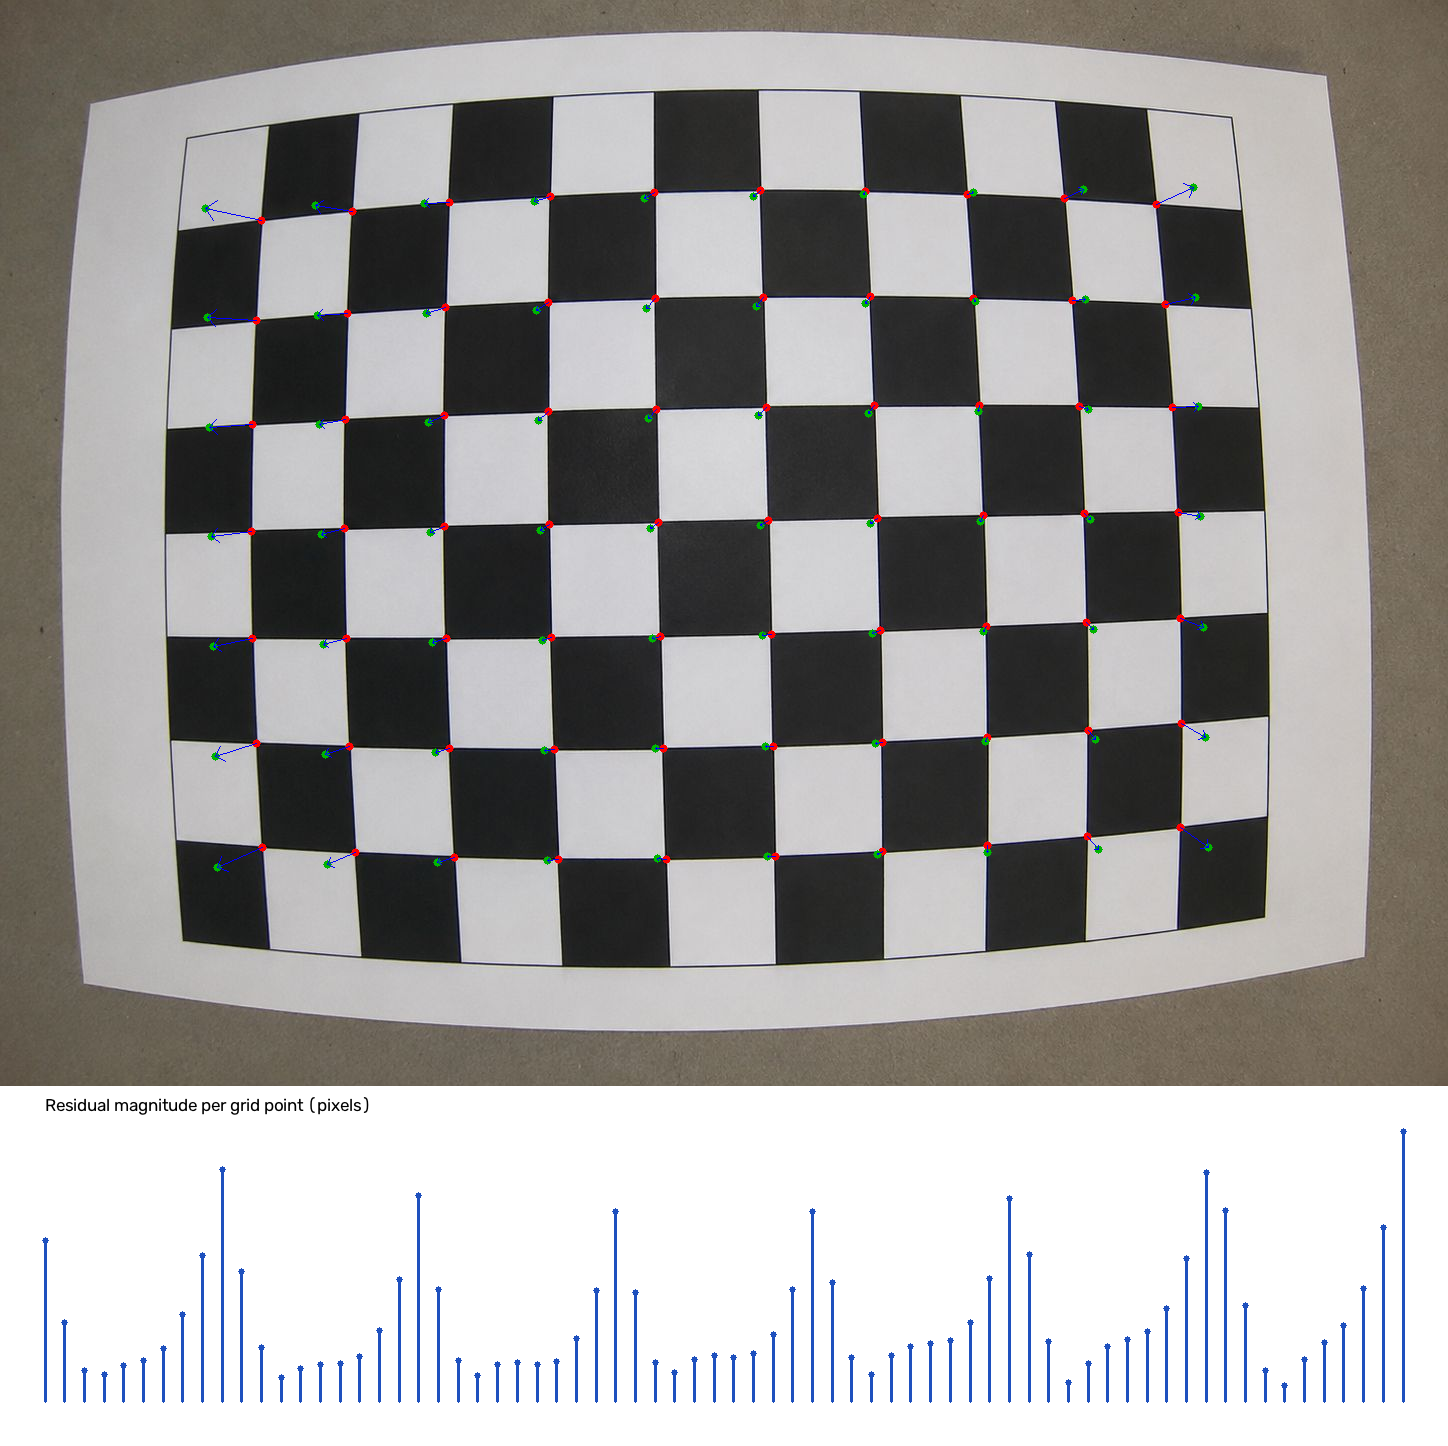
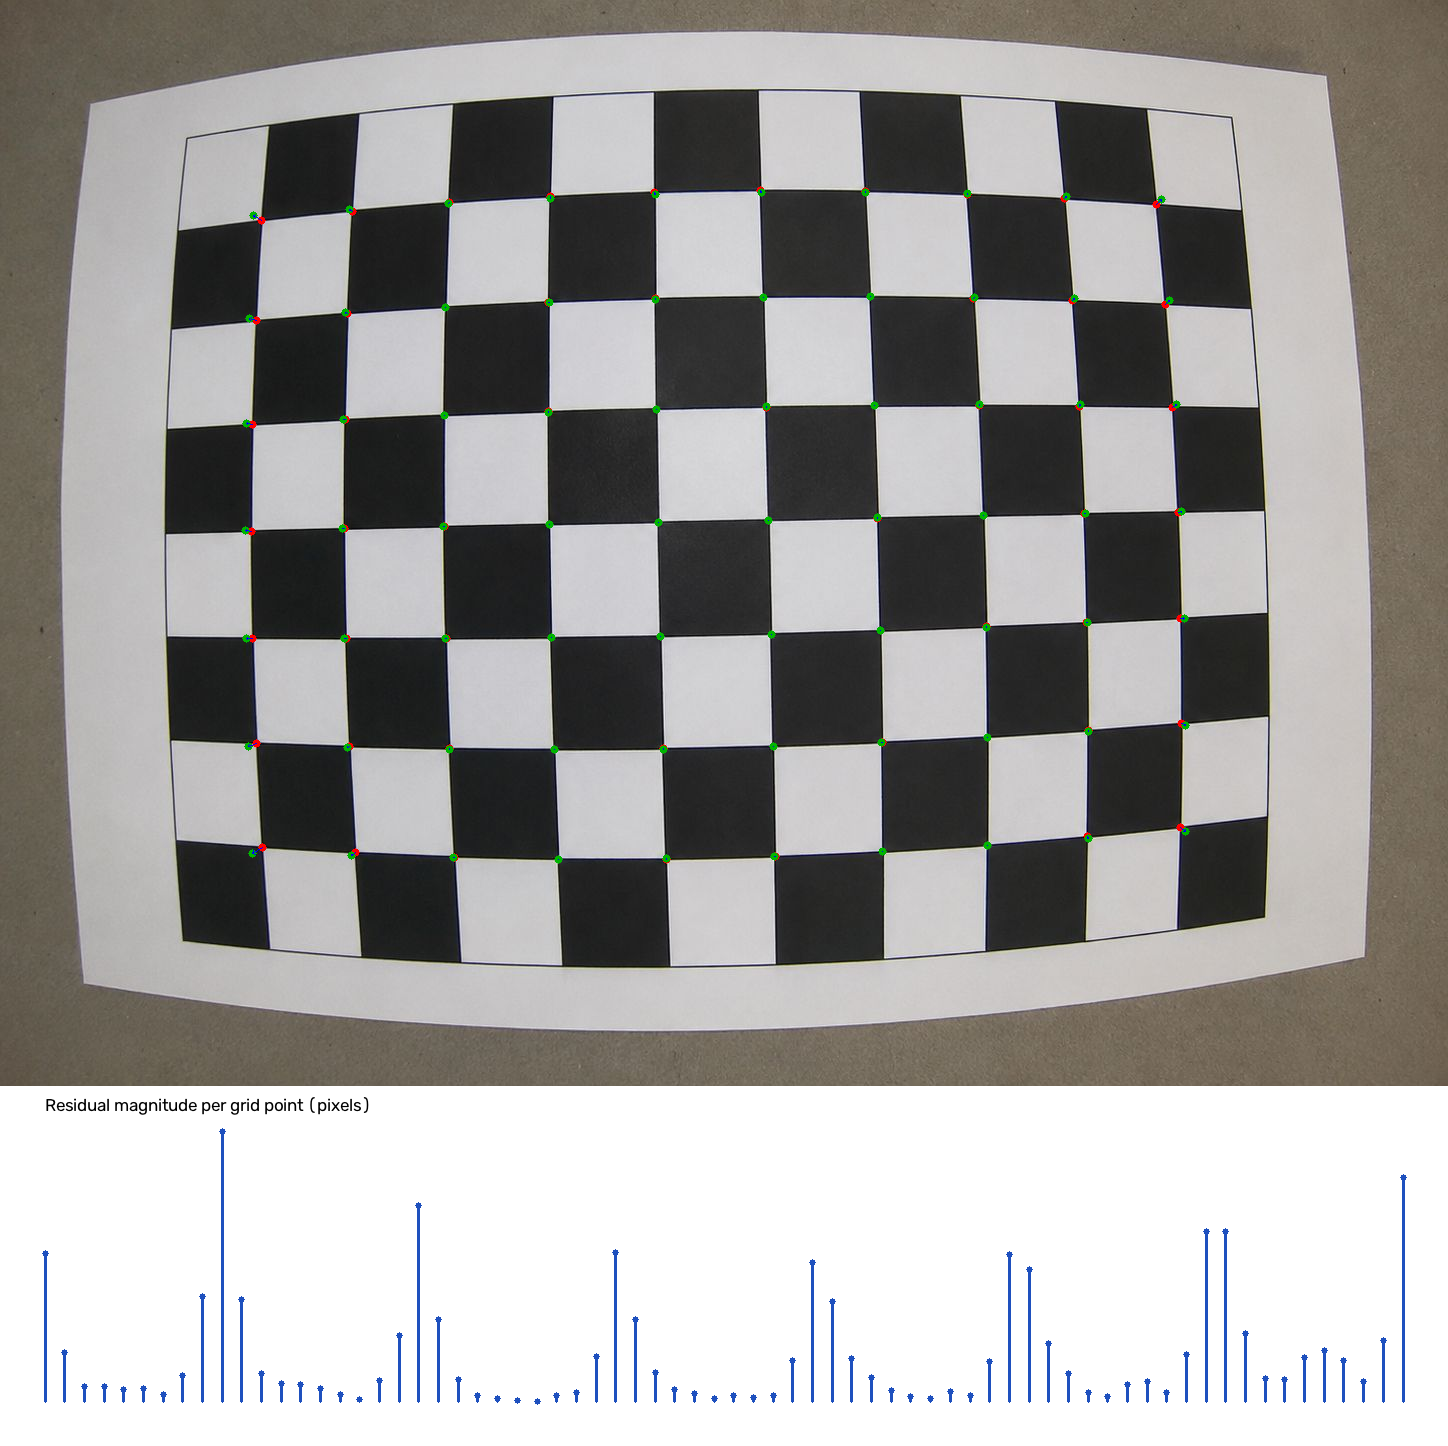
"Finalize camera calibration

diff --git a/Question2/src/optimization.py b/Question2/src/optimization.py
@@ -8,7 +8,7 @@ statistics.
 from __future__ import annotations
 
 import numpy as np
-from scipy.optimize import minimize
+from scipy.optimize import least_squares
 from scipy.spatial.transform import Rotation
 
 from .distortion_model import project_points
@@ -320,7 +320,6 @@ def optimize_parameters(
 	if initial.shape != (12,) or not np.all(np.isfinite(initial)):
 		raise ValueError("initial_theta must be a finite vector with 12 values")
 	initial_cost = cost_from_theta(initial, world, observed, delta)
-	invalid_cost = 1e100
 	if image_size is None:
 		image_width = max(float(np.ptp(observed[:, 0])), 1.0)
 		image_height = max(float(np.ptp(observed[:, 1])), 1.0)
@@ -348,21 +347,59 @@ def optimize_parameters(
 		raise ValueError("initial_theta lies outside the physically safe parameter bounds")
 	_validate_candidate(initial, world, (int(image_width), int(image_height)))
 
-	def objective(theta: np.ndarray) -> float:
+	def stable_residual_vector(theta: np.ndarray) -> np.ndarray:
+		"""Return smooth finite residuals for least-squares trial parameters."""
+		values = np.asarray(theta, dtype=float)
 		try:
-			_validate_candidate(theta, world, (int(image_width), int(image_height)))
-			return cost_from_theta(theta, world, observed, delta)
-		except (ValueError, FloatingPointError):
-			return invalid_cost
+			intrinsic, rotation, translation, k1, k2 = unpack_theta(values)
+			from .distortion_model import world_to_camera
 
-	result = minimize(
-		objective,
+			camera = world_to_camera(world, rotation, translation)
+			depths = camera[:, 2]
+			depth_scale = max(world_scale, 1.0)
+			depth_barrier = np.logaddexp(0.0, -depths / depth_scale)
+			if np.any(depths <= 0):
+				return np.concatenate((np.full(2 * len(world), 100.0), depth_barrier, np.zeros(len(world))))
+			normalized = camera[:, :2] / depths[:, None]
+			radius_squared = np.sum(normalized**2, axis=1)
+			distortion_scale = 1.0 + k1 * radius_squared + k2 * radius_squared**2
+			if not np.all(np.isfinite(distortion_scale)):
+				return np.full(2 * len(world) + 2 * len(world), 100.0)
+			predicted = project_points(world, intrinsic, rotation, translation, k1, k2)
+			if not np.all(np.isfinite(predicted)):
+				return np.full(2 * len(world) + 2 * len(world), 100.0)
+			residuals = observed - predicted
+			magnitudes = np.linalg.norm(residuals, axis=1)
+			loss = huber_loss(magnitudes, delta)
+			weights = np.sqrt(loss / np.maximum(magnitudes**2, 1e-24))
+			robust_residuals = (residuals * weights[:, None]).reshape(-1)
+			outside_x = np.maximum(0.0, np.abs(predicted[:, 0] - image_width / 2.0) - image_width / 2.0)
+			outside_y = np.maximum(0.0, np.abs(predicted[:, 1] - image_height / 2.0) - image_height / 2.0)
+			domain_barrier = (outside_x + outside_y) / max(image_scale, 1.0)
+			return np.concatenate((robust_residuals, depth_barrier * 0.01, domain_barrier * 0.01))
+		except (ValueError, FloatingPointError, OverflowError):
+			return np.full(2 * len(world) + len(world) + len(world), 100.0)
+
+	result = least_squares(
+		stable_residual_vector,
 		initial,
-		method="L-BFGS-B",
-		bounds=parameter_bounds,
-		options={"maxiter": max_iterations, "ftol": 1e-12, "gtol": 1e-8},
+		bounds=(
+			np.array([bound[0] for bound in parameter_bounds]),
+			np.array([bound[1] for bound in parameter_bounds]),
+		),
+		method="trf",
+		x_scale="jac",
+		loss="linear",
+		max_nfev=max_iterations,
+		ftol=1e-12,
+		xtol=1e-12,
+		gtol=1e-10,
 	)
-	final_cost = objective(result.x)
+	_validate_candidate(result.x, world, (int(image_width), int(image_height)))
+	final_cost = cost_from_theta(result.x, world, observed, delta)
+	if not final_cost < initial_cost:
+		result.success = False
+		result.message = "Optimization did not reduce the robust reprojection cost"
 	return result.x, result, float(initial_cost), float(final_cost)
 
 
@@ -406,7 +443,14 @@ def synthetic_optimization_example() -> tuple[np.ndarray, object, float, float]:
 	initial_theta = true_theta + np.array(
 		[-45.0, 35.0, 12.0, -10.0, 0.002, -0.0002, 0.01, 0.01, -0.01, 0.2, -0.2, 0.5]
 	)
-	return optimize_parameters(world, observed, initial_theta, delta=3.0, max_iterations=300)
+	return optimize_parameters(
+		world,
+		observed,
+		initial_theta,
+		delta=3.0,
+		max_iterations=300,
+		image_size=(1200, 900),
+	)
 
 
 if __name__ == "__main__":
